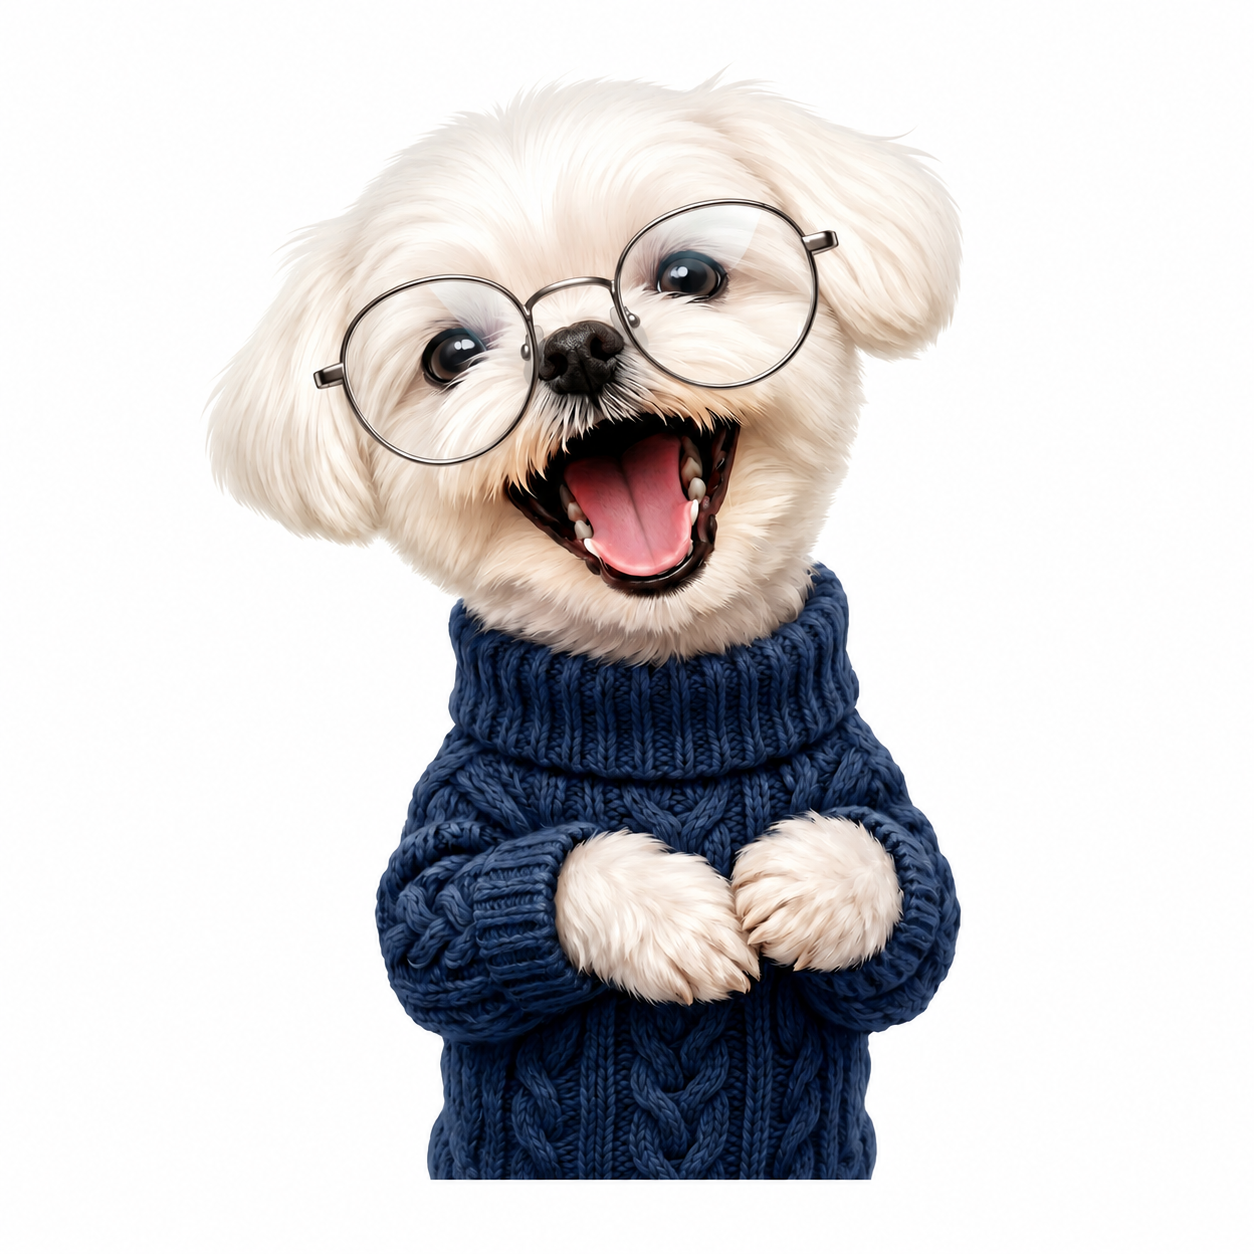
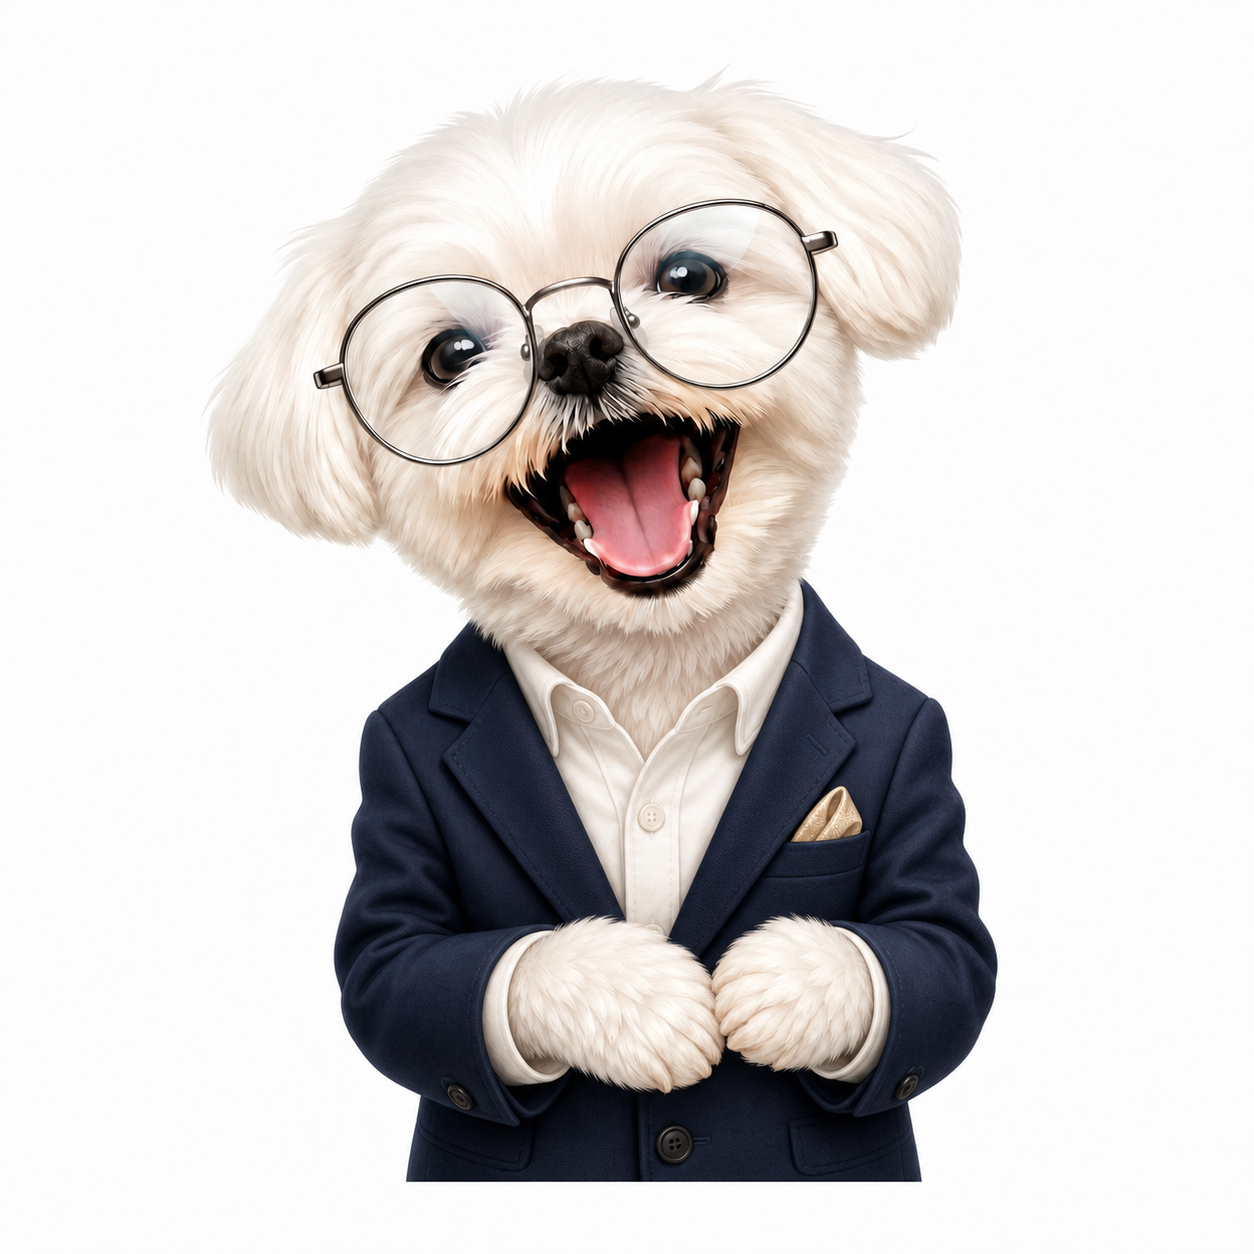
Update dog profile outfit

diff --git a/index.html b/index.html
@@ -3,9 +3,9 @@
 <head>
   <meta charset="utf-8">
   <meta name="viewport" content="width=device-width, initial-scale=1">
-  <link rel="icon" href="favicon.ico" sizes="any">
-  <link rel="icon" type="image/png" sizes="512x512" href="assets/favicon.png">
-  <link rel="apple-touch-icon" href="assets/favicon.png">
+  <link rel="icon" href="favicon.ico?v=outfit" sizes="any">
+  <link rel="icon" type="image/png" sizes="512x512" href="assets/favicon.png?v=outfit">
+  <link rel="apple-touch-icon" href="assets/favicon.png?v=outfit">
   <meta name="theme-color" content="#102a43">
   <title>세무회계, 경영컨설턴트</title>
   <meta name="description" content="세무회계와 경영컨설팅을 통해 기업의 성장을 돕는 컨설턴트입니다">
@@ -15,7 +15,7 @@
   <meta property="og:description" content="세무회계와 경영컨설팅을 통해 기업의 성장을 돕는 컨설턴트입니다">
   <meta property="og:type" content="website">
   <meta property="og:url" content="https://graceyun07-hub.github.io/">
-  <meta property="og:image" content="https://graceyun07-hub.github.io/assets/profile.png">
+  <meta property="og:image" content="https://graceyun07-hub.github.io/assets/profile.png?v=outfit">
   <!-- 검색엔진 소유확인 meta 태그 -->
   <meta name="naver-site-verification" content="63d5317fb75e417e790c10ec1d33976ec47ac6f5">
   <meta name="google-site-verification" content="ruanWYJkCYpMV3iEFV6cu60UEhcPPiycUDLrrkKuTTE">
@@ -40,7 +40,7 @@
       <section class="hero" id="hero" aria-labelledby="hero-name">
         <p class="eyebrow">DIGITAL PROFILE · KM CONSULTING</p>
         <div class="portrait-wrap">
-          <img src="assets/profile.png" alt="안경과 남색 니트를 착용한 흰 강아지 프로필 일러스트" width="160" height="160">
+          <img src="assets/profile.png?v=outfit" alt="안경과 네이비 재킷을 착용한 흰 강아지 프로필 일러스트" width="160" height="160">
         </div>
         <h1 id="hero-name">윤경만</h1>
         <p class="role">컨설턴트 <span></span> 케이엠경영컨설팅</p>
@@ -57,7 +57,7 @@
         <p class="section-kicker">ABOUT</p>
         <h2 id="intro-title">숫자에서 답을 찾고,<br><em>성장의 길</em>을 함께 설계합니다.</h2>
         <div class="intro-card">
-          <img src="assets/profile.png" alt="안경과 남색 니트를 착용한 흰 강아지 프로필 일러스트" width="76" height="76">
+          <img src="assets/profile.png?v=outfit" alt="안경과 네이비 재킷을 착용한 흰 강아지 프로필 일러스트" width="76" height="76">
           <p>현장의 언어를 이해하는 세무회계와 재무 관점으로, 소상공인과 기업이 다음 단계로 나아갈 수 있도록 돕습니다.</p>
         </div>
         <div class="chips" aria-label="전문 키워드">